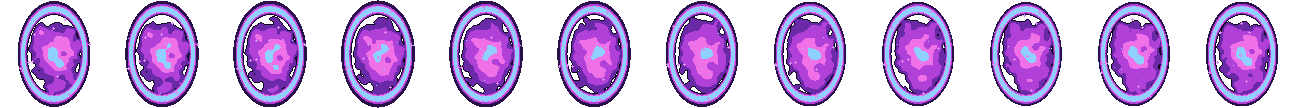
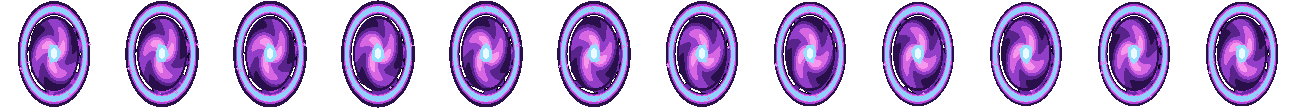
v9.3.1 (en cours) : invocation — tourbillon du portail recentré et fluide (plus de tache décalée qui saute), bannière du monde masquée derrière l'écran d'invocation
Claude-Session: https://claude.ai/code/session_0134j7sUJ6swMBb2FqCxLf5t

diff --git a/src/ui/style.css b/src/ui/style.css
@@ -2929,3 +2929,5 @@ img.ico16 { width: 16px; height: 16px; vertical-align: middle; }
 .eco-pet-ssr canvas { width: 28px !important; height: 25px !important; }
 .eco-pet-ssr:not(.owned) { opacity: 0.75; }
 .eco-wish-row.eco-pet-row { grid-template-columns: repeat(auto-fill, minmax(104px, 1fr)); }
+/* v9.3.1 : pendant l'invocation, la bannière du monde (« Monde 9 — Cœur du volcan ») ne transparaît plus derrière le portail. */
+body:has(.summon-fx) #banner { visibility: hidden; }
